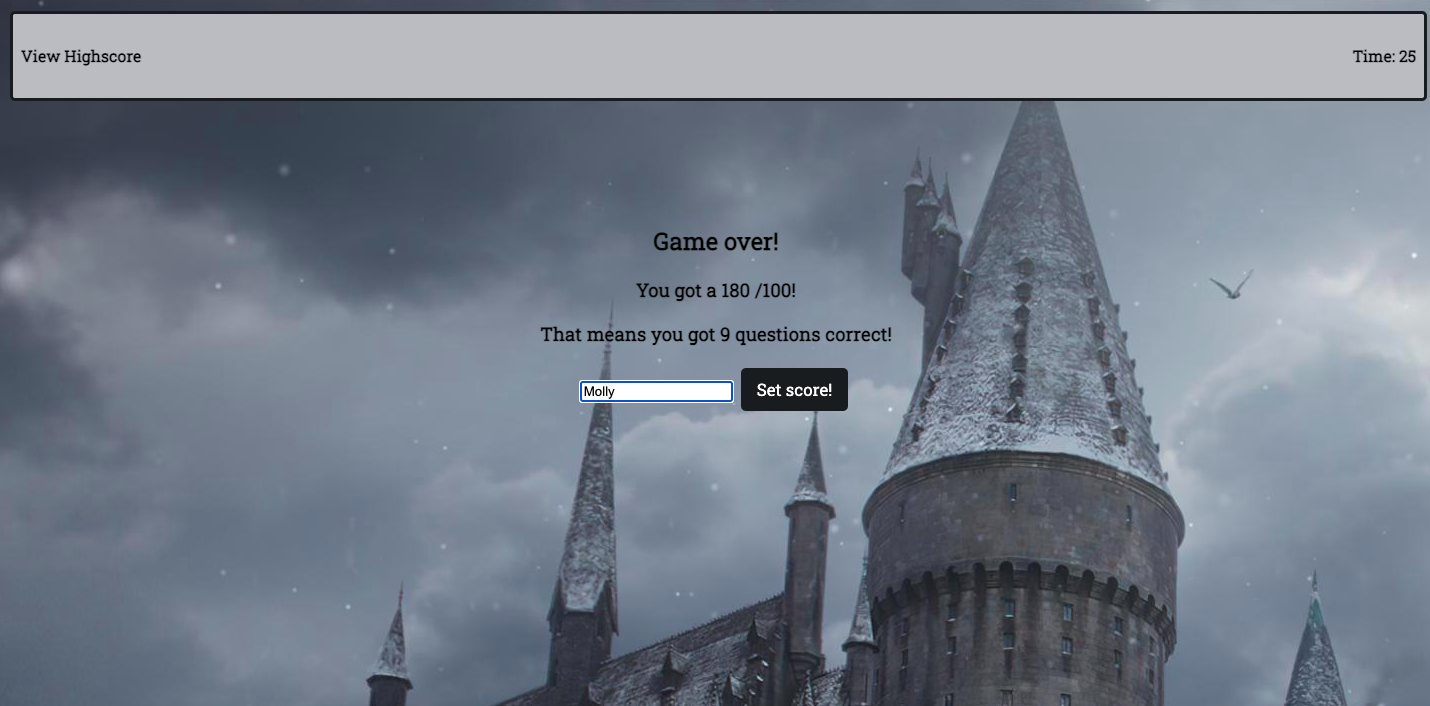
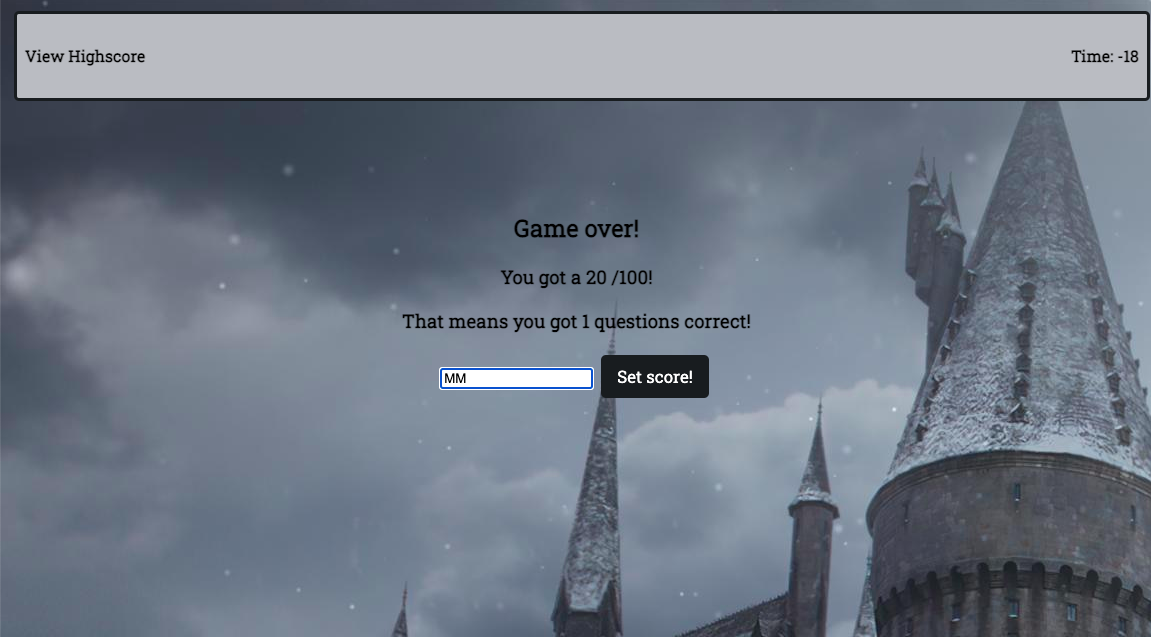
Update screenshots & readme

diff --git a/assets/js/script.js b/assets/js/script.js
@@ -84,7 +84,7 @@ var quizContent = `
 <h2>Game over!</h2>
 <h3>You got a ` + score +  ` /100!</h3>
 <h3>That means you got ` + score / 20 +  ` questions correct!</h3>
-<input type="text" id="name" placeholder="First name"> 
+<input type="text" id="name" placeholder="Initials"> 
 <button onclick="setScore()">Set score!</button>`;
 
 document.getElementById("quizBody").innerHTML = quizContent;

diff --git a/README.md b/README.md
@@ -1,4 +1,23 @@
 # Code-Quiz
+University of Minnesota - Coding Bootcamp Homework 4
 
+# Description
+This is a timer-based trivia quiz using HTML, CSS and JavaScript. This is a multiple choice question quiz with the theme being Harry Potter. Once you click start, the timer will begin and take you a series of 10 questions. If answered correctly you will get points and time added to your timer. If answered incorrectly you will lose points and time. 
+
+At the end of the quiz you will be able to see your score and enter your intials to save your highscore. 
+
+# Demo
 ### Start Game
-![Start Game](./assets/images/Main20%Image20%-20%Start20%Quiz.png)
+![Start Game](./assets/images/StartQuiz.png)
+
+### Clicking Through Quiz
+![Click Button](./assets/images/button.png)
+
+### Setting Your High Score
+![Set Highscore](./assets/images/SetHighscore.png)
+
+### Game Over
+![Game Over](./assets/images/GameOver.png)
+
+# Deployed Site
+this is where the deployed site link will go
